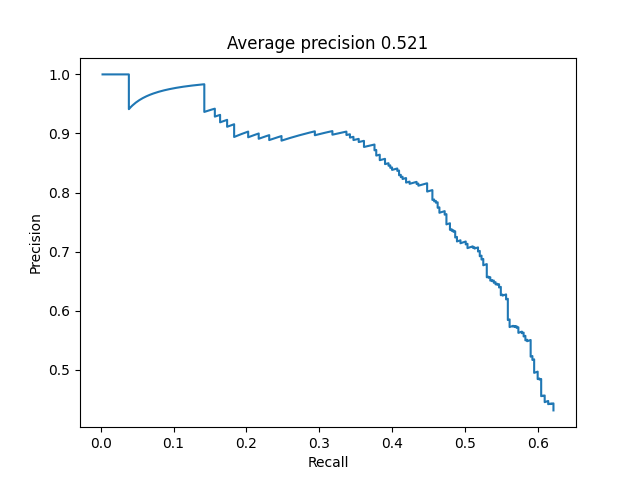
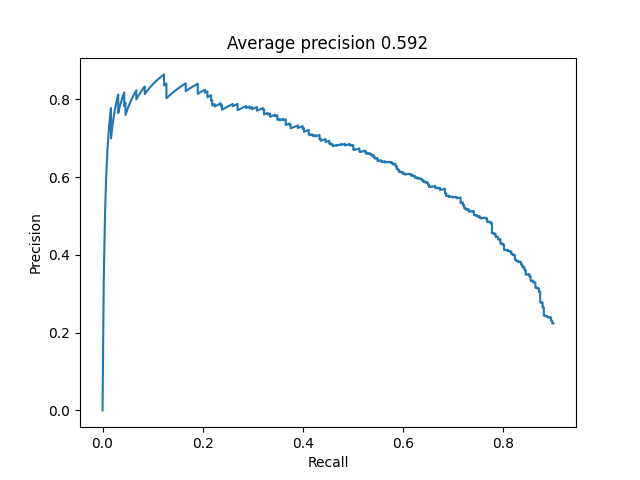
CAVA tema2 0.592 avg precision

diff --git a/CAVA/tema2/Tema 3_2  Solutie/FacialDetector.py b/CAVA/tema2/Tema 3_2  Solutie/FacialDetector.py
@@ -249,7 +249,7 @@ class FacialDetector:
         # xmin, ymin, xmax, ymax
         x_out_of_bounds = np.where(image_detections[:, 2] > image_size[1])[0]
         y_out_of_bounds = np.where(image_detections[:, 3] > image_size[0])[0]
-        print(x_out_of_bounds, y_out_of_bounds)
+        # print(x_out_of_bounds, y_out_of_bounds)
         image_detections[x_out_of_bounds, 2] = image_size[1]
         image_detections[y_out_of_bounds, 3] = image_size[0]
         sorted_indices = np.flipud(np.argsort(image_scores))
@@ -307,23 +307,27 @@ class FacialDetector:
             # TODO: completati codul functiei in continuare
             image_scores = []
             image_detections = []
-            hog_descriptors = hog(img, pixels_per_cell=(self.params.dim_hog_cell, self.params.dim_hog_cell),
-                                  cells_per_block=(2, 2), feature_vector=False)
-            num_cols = img.shape[1] // self.params.dim_hog_cell - 1
-            num_rows = img.shape[0] // self.params.dim_hog_cell - 1
-            num_cell_in_template = self.params.dim_window // self.params.dim_hog_cell - 1
+            for j in range(10, 26, 15):
+                img = cv.resize(img, (0, 0), fx=j / 10, fy=j / 10)
+                hog_descriptors = hog(img, pixels_per_cell=(self.params.dim_hog_cell, self.params.dim_hog_cell),
+                                      cells_per_block=(2, 2), feature_vector=False)
+                num_cols = img.shape[1] // self.params.dim_hog_cell - 1
+                num_rows = img.shape[0] // self.params.dim_hog_cell - 1
+                num_cell_in_template = self.params.dim_window // self.params.dim_hog_cell - 1
 
-            for y in range(0, num_rows - num_cell_in_template):
-                for x in range(0, num_cols - num_cell_in_template):
-                    descr = hog_descriptors[y:y + num_cell_in_template, x:x + num_cell_in_template].flatten()
-                    score = np.dot(descr, w)[0] + bias
-                    if score > self.params.threshold:
-                        x_min = int(x * self.params.dim_hog_cell)
-                        y_min = int(y * self.params.dim_hog_cell)
-                        x_max = int(x * self.params.dim_hog_cell + self.params.dim_window)
-                        y_max = int(y * self.params.dim_hog_cell + self.params.dim_window)
-                        image_detections.append([x_min, y_min, x_max, y_max])
-                        image_scores.append(score)
+                for y in range(0, num_rows - num_cell_in_template):
+                    for x in range(0, num_cols - num_cell_in_template):
+                        descr = hog_descriptors[y:y + num_cell_in_template, x:x + num_cell_in_template].flatten()
+                        score = np.dot(descr, w)[0] + bias
+                        if score > self.params.threshold:
+                            x_min = int((x / (j / 10)) * self.params.dim_hog_cell)
+                            y_min = int((y / (j / 10)) * self.params.dim_hog_cell)
+                            x_max = int((x / (j / 10)) * self.params.dim_hog_cell + self.params.dim_window / (j / 10))
+                            y_max = int((y / (j / 10)) * self.params.dim_hog_cell + self.params.dim_window / (j / 10))
+                            image_detections.append([x_min, y_min, x_max, y_max])
+                            image_scores.append(score)
+                            # print(image_detections)
+                            # print(image_scores)
             if len(image_scores) > 0:
                 image_detections, image_scores = self.non_maximal_suppression(np.array(image_detections),
                                                                               np.array(image_scores), img.shape)
